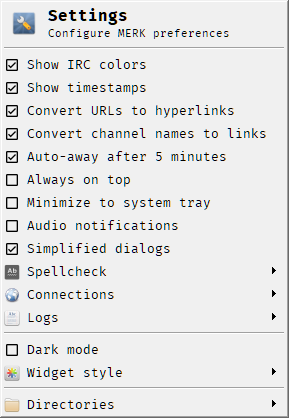
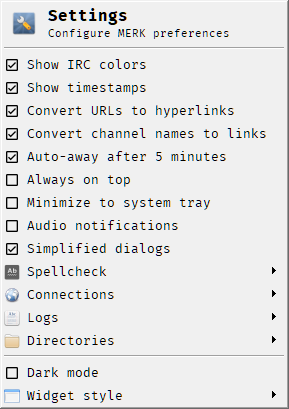
Latest build

diff --git a/README.html b/README.html
@@ -1,4 +1,4 @@
-<h1>MERK 0.044.001</h1>
+<h1>MERK 0.044.005</h1>
 
 <p><a href="https://github.com/nutjob-laboratories/merk">Official source code repository</a></p>
 <h1 id="table-of-contents">Table of contents</h1>
@@ -14,7 +14,7 @@
 <li><a href="#does-merk-need-any-help">Does MERK need any help?</a></li>
 </ul>
 <h1 id="summary">Summary</h1>
-<p><strong>MERK</strong> is a graphical <a href="https://www.gnu.org/licenses/gpl-3.0.en.html">open source</a> <a href="https://en.wikipedia.org/wiki/Internet_Relay_Chat">Internet relay chat</a> client. The current development version is <strong>0.044.001</strong>. It uses a <a href="https://en.wikipedia.org/wiki/Multiple-document_interface">multiple-document interface</a>, much like the popular Windows IRC client <a href="https://www.mirc.com/">mIRC</a>.  <strong>MERK</strong> is written in Python 3, using the <a href="https://pypi.org/project/PyQt5/">PyQt5</a> and <a href="https://twistedmatrix.com/trac/">Twisted</a> libraries, and runs on both Windows and Linux. <strong>MERK</strong> is updated frequently with new features and bugfixes.</p>
+<p><strong>MERK</strong> is a graphical <a href="https://www.gnu.org/licenses/gpl-3.0.en.html">open source</a> <a href="https://en.wikipedia.org/wiki/Internet_Relay_Chat">Internet relay chat</a> client. The current development version is <strong>0.044.005</strong>. It uses a <a href="https://en.wikipedia.org/wiki/Multiple-document_interface">multiple-document interface</a>, much like the popular Windows IRC client <a href="https://www.mirc.com/">mIRC</a>.  <strong>MERK</strong> is written in Python 3, using the <a href="https://pypi.org/project/PyQt5/">PyQt5</a> and <a href="https://twistedmatrix.com/trac/">Twisted</a> libraries, and runs on both Windows and Linux. <strong>MERK</strong> is updated frequently with new features and bugfixes.</p>
 <p><strong>MERK</strong> is still in development, but it works, and can be used for most IRC activities.</p>
 <p>Join me on the official <strong>MERK</strong> IRC channel, <strong>#merk</strong> on the Libera Chat network! Connect to  Libera in the client as one of the built-in server suggestions, or at <strong>irc.libera.chat</strong>, port <strong>6667</strong> (you can also connect via SSL on port <strong>6697</strong>). Honestly, I work a lot, so I&#39;m almost always idle, but I pop in and chat a few times a day!</p>
 <h1 id="making-merk-portable-on-windows">Making MERK Portable on Windows</h1>

diff --git a/merk/resources/README.html b/merk/resources/README.html
@@ -1,4 +1,4 @@
-<h1>MERK 0.044.001</h1>
+<h1>MERK 0.044.005</h1>
 
 <p><a href="https://github.com/nutjob-laboratories/merk">Official source code repository</a></p>
 <h1 id="table-of-contents">Table of contents</h1>
@@ -14,7 +14,7 @@
 <li><a href="#does-merk-need-any-help">Does MERK need any help?</a></li>
 </ul>
 <h1 id="summary">Summary</h1>
-<p><strong>MERK</strong> is a graphical <a href="https://www.gnu.org/licenses/gpl-3.0.en.html">open source</a> <a href="https://en.wikipedia.org/wiki/Internet_Relay_Chat">Internet relay chat</a> client. The current development version is <strong>0.044.001</strong>. It uses a <a href="https://en.wikipedia.org/wiki/Multiple-document_interface">multiple-document interface</a>, much like the popular Windows IRC client <a href="https://www.mirc.com/">mIRC</a>.  <strong>MERK</strong> is written in Python 3, using the <a href="https://pypi.org/project/PyQt5/">PyQt5</a> and <a href="https://twistedmatrix.com/trac/">Twisted</a> libraries, and runs on both Windows and Linux. <strong>MERK</strong> is updated frequently with new features and bugfixes.</p>
+<p><strong>MERK</strong> is a graphical <a href="https://www.gnu.org/licenses/gpl-3.0.en.html">open source</a> <a href="https://en.wikipedia.org/wiki/Internet_Relay_Chat">Internet relay chat</a> client. The current development version is <strong>0.044.005</strong>. It uses a <a href="https://en.wikipedia.org/wiki/Multiple-document_interface">multiple-document interface</a>, much like the popular Windows IRC client <a href="https://www.mirc.com/">mIRC</a>.  <strong>MERK</strong> is written in Python 3, using the <a href="https://pypi.org/project/PyQt5/">PyQt5</a> and <a href="https://twistedmatrix.com/trac/">Twisted</a> libraries, and runs on both Windows and Linux. <strong>MERK</strong> is updated frequently with new features and bugfixes.</p>
 <p><strong>MERK</strong> is still in development, but it works, and can be used for most IRC activities.</p>
 <p>Join me on the official <strong>MERK</strong> IRC channel, <strong>#merk</strong> on the Libera Chat network! Connect to  Libera in the client as one of the built-in server suggestions, or at <strong>irc.libera.chat</strong>, port <strong>6667</strong> (you can also connect via SSL on port <strong>6697</strong>). Honestly, I work a lot, so I&#39;m almost always idle, but I pop in and chat a few times a day!</p>
 <h1 id="making-merk-portable-on-windows">Making MERK Portable on Windows</h1>

diff --git a/merk/main.py b/merk/main.py
@@ -2622,6 +2622,7 @@ class Merk(QMainWindow):
 
 		rval = msgBox.exec()
 		if rval != QMessageBox.Cancel:
+			if self.is_hidden: self.toggleHide()
 			if config.DARK_MODE:
 				config.DARK_MODE = False
 			else:
@@ -2685,8 +2686,7 @@ class Merk(QMainWindow):
 
 	def menuSetWidget(self,newstyle):
 		self.app.setStyle(newstyle)
-		font = QFont()
-		font.fromString(config.APPLICATION_FONT)
+		font = self.app.font()
 		self.app.setFont(font)
 		self.setAllFont(font)
 		if config.QT_WINDOW_STYLE:
@@ -2939,28 +2939,6 @@ class Merk(QMainWindow):
 		entry.triggered.connect(self.settingsIntermittent)
 		sm.addAction(entry)
 
-		self.settingsMenu.addSeparator()
-
-		if config.DARK_MODE:
-			entry = QAction(QIcon(self.checked_icon),"Dark mode", self)
-		else:
-			entry = QAction(QIcon(self.unchecked_icon),"Dark mode", self)
-		entry.triggered.connect(self.settingsDarkMode)
-		self.settingsMenu.addAction(entry)
-
-		sm = self.settingsMenu.addMenu(QIcon(STYLE_ICON),"Widget style")
-
-
-		for s in QStyleFactory.keys():
-			if s==config.QT_WINDOW_STYLE:
-				entry = QAction(QIcon(self.round_checked_icon),s, self)
-			else:
-				entry = QAction(QIcon(self.round_unchecked_icon),s, self)
-			entry.triggered.connect(lambda state,u=f"{s}": self.menuSetWidget(u))
-			sm.addAction(entry)
-
-		self.settingsMenu.addSeparator()
-
 		sm = self.settingsMenu.addMenu(QIcon(FOLDER_ICON),"Directories")
 
 		if not is_running_from_pyinstaller():
@@ -2987,6 +2965,25 @@ class Merk(QMainWindow):
 		entry = QAction(QIcon(SCRIPT_ICON),"Scripts directory",self)
 		entry.triggered.connect((lambda : QDesktopServices.openUrl(QUrl("file:"+commands.SCRIPTS_DIRECTORY))))
 		sm.addAction(entry)
+
+		self.settingsMenu.addSeparator()
+
+		if config.DARK_MODE:
+			entry = QAction(QIcon(self.checked_icon),"Dark mode", self)
+		else:
+			entry = QAction(QIcon(self.unchecked_icon),"Dark mode", self)
+		entry.triggered.connect(self.settingsDarkMode)
+		self.settingsMenu.addAction(entry)
+
+		sm = self.settingsMenu.addMenu(QIcon(WINDOW_ICON),"Widget style")
+
+		for s in QStyleFactory.keys():
+			if s==config.QT_WINDOW_STYLE:
+				entry = QAction(QIcon(self.round_checked_icon),s, self)
+			else:
+				entry = QAction(QIcon(self.round_unchecked_icon),s, self)
+			entry.triggered.connect(lambda state,u=f"{s}": self.menuSetWidget(u))
+			sm.addAction(entry)
 
 		self.buildSystrayMenu()
 

diff --git a/merk/resources/version.py b/merk/resources/version.py
@@ -1,1 +1,1 @@
-APPLICATION_VERSION = "0.044.001"
+APPLICATION_VERSION = "0.044.005"

diff --git a/README.md b/README.md
@@ -3,7 +3,7 @@
   <b><big>Open Source IRC Client</big></b><br>
   <i>A multiple-document interface IRC client for Windows and Linux</i><br>
   <b><big>Current stable release: <a href="https://github.com/nutjob-laboratories/merk/releases/tag/0.044.000">MERK 0.044.000</a></big></b><br>
-  <b>Current development version: 0.044.001</b><br>
+  <b>Current development version: 0.044.005</b><br>
 </p>
 
  - [Downloads](#Downloads)
@@ -26,13 +26,13 @@ All files are packed in [ZIP archive files](https://en.wikipedia.org/wiki/ZIP_(f
 | Type| Platform  | Download  |
 | :----:    | :----:    | :----:    |
 | Current Release |  -  | [MERK 0.044.000 Release](https://github.com/nutjob-laboratories/merk/releases/tag/0.044.000)  |
-| Zip Archive|  Cross-platform  | [Download MERK 0.044.001 (8.77 MB)](https://www.dropbox.com/scl/fi/t8nhn5mnoagclu43fs1pn/merk-latest.zip?rlkey=ghcc5c3955ihn4fijw717di03&dl=1)  |
-| Zip Archive|  Windows | [Download MERK 0.044.001 (54.81 MB)](https://www.dropbox.com/scl/fi/fnu5uasoo2dzmzwiferhw/merk-windows-latest.zip?rlkey=9fke2qid0gna4n4zt00v0uhhy&dl=1)|
-|   Windows Installer|  Windows | [Download MERK 0.044.001 (41.90 MB)](https://www.dropbox.com/scl/fi/okp7zrjy25p1v3rox00p1/merk_setup.zip?rlkey=ey9f78jqzzp9ldjbqgwikk8uc&dl=1)|
+| Zip Archive|  Cross-platform  | [Download MERK 0.044.005 (8.77 MB)](https://www.dropbox.com/scl/fi/t8nhn5mnoagclu43fs1pn/merk-latest.zip?rlkey=ghcc5c3955ihn4fijw717di03&dl=1)  |
+| Zip Archive|  Windows | [Download MERK 0.044.005 (54.81 MB)](https://www.dropbox.com/scl/fi/fnu5uasoo2dzmzwiferhw/merk-windows-latest.zip?rlkey=9fke2qid0gna4n4zt00v0uhhy&dl=1)|
+|   Windows Installer|  Windows | [Download MERK 0.044.005 (41.90 MB)](https://www.dropbox.com/scl/fi/okp7zrjy25p1v3rox00p1/merk_setup.zip?rlkey=ey9f78jqzzp9ldjbqgwikk8uc&dl=1)|
 
 # Summary
   
-**MERK** is a graphical [open source](https://www.gnu.org/licenses/gpl-3.0.en.html) [Internet relay chat](https://en.wikipedia.org/wiki/Internet_Relay_Chat) client. The current development version is **0.044.001**. It uses a [multiple-document interface](https://en.wikipedia.org/wiki/Multiple-document_interface), much like the popular Windows IRC client [mIRC](https://www.mirc.com/).  **MERK** is written in Python 3, using the [PyQt5](https://pypi.org/project/PyQt5/) and [Twisted](https://twistedmatrix.com/trac/) libraries, and runs on both Windows and Linux. **MERK** is updated frequently with new features and bugfixes.
+**MERK** is a graphical [open source](https://www.gnu.org/licenses/gpl-3.0.en.html) [Internet relay chat](https://en.wikipedia.org/wiki/Internet_Relay_Chat) client. The current development version is **0.044.005**. It uses a [multiple-document interface](https://en.wikipedia.org/wiki/Multiple-document_interface), much like the popular Windows IRC client [mIRC](https://www.mirc.com/).  **MERK** is written in Python 3, using the [PyQt5](https://pypi.org/project/PyQt5/) and [Twisted](https://twistedmatrix.com/trac/) libraries, and runs on both Windows and Linux. **MERK** is updated frequently with new features and bugfixes.
 
 **MERK** is still in development, but it works, and can be used for most IRC activities. [The current stable release of **MERK** is version 0.044.000](https://github.com/nutjob-laboratories/merk/releases/tag/0.044.000).
 
@@ -111,7 +111,7 @@ There are three libraries that comes bundled with **MERK**:
 
 # Screenshots
 
-<p><small><i>Screenshots may not reflect the current release (0.044.000), and may reflect the current development version (0.044.001).</i></small></p>
+<p><small><i>Screenshots may not reflect the current release (0.044.000), and may reflect the current development version (0.044.005).</i></small></p>
 
 <p align="center">
 <center><a href="./graphics/screenshot_big.png"><img src="./graphics/screenshot1.png"></a></center></br>
